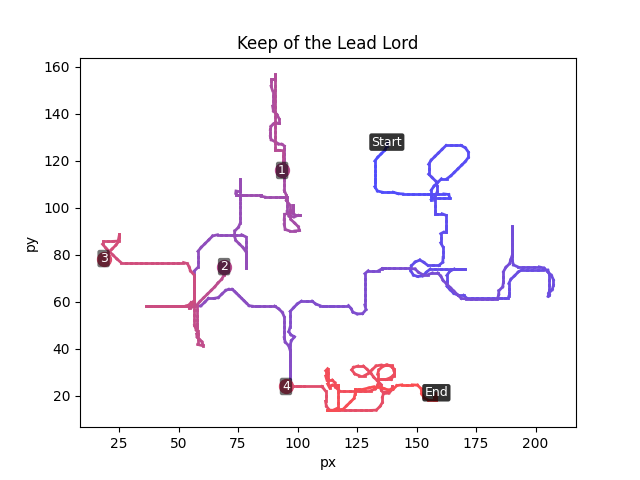
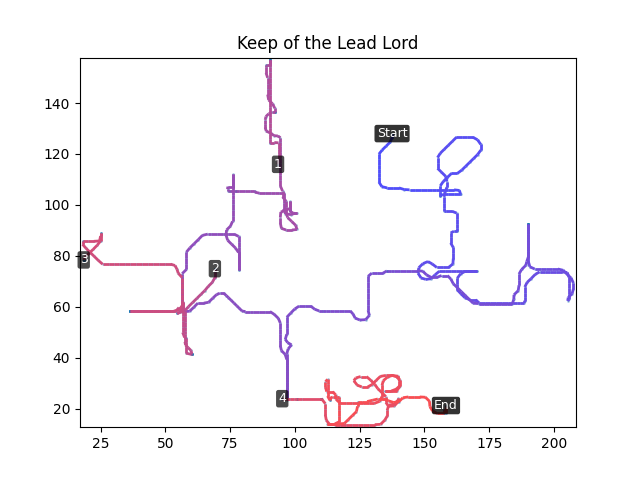
Updated Visualizer

diff --git a/Notebook/path-visualizer.py b/Notebook/path-visualizer.py
@@ -1,6 +1,7 @@
 import json, os
 from collections import defaultdict
 import matplotlib.pyplot as plt
+from matplotlib.collections import LineCollection
 import numpy as np
 
 def cleaning_data(data):
@@ -22,7 +23,8 @@ def load_run_data(path):
 
 def random_file(folder):
     files = [f for f in os.listdir(folder) if f.endswith('.jsonl')]
-    return os.path.join(folder, files[0]) if files else None
+    i = np.random.randint(0, len(files))
+    return os.path.join(folder, files[i]) if files else None
 
 def recent_file(folder):
     files = [f for f in os.listdir(folder) if f.endswith('.jsonl')]
@@ -39,10 +41,19 @@ def points_by_level(records):
 
 def plot_list(points, name, same_tol=10):
     n = len(points)
-    if n < 2:
+    if n == 0:
+        plt.title(name)
+        return
+    if n == 1:
+        x, y = points[0]
+        plt.scatter([x], [y], s=60)
+        plt.text(x, y, "Start", fontsize=9, ha='center', va='center',
+                 color='white', bbox=dict(boxstyle='round,pad=0.18', fc='black', ec='none', alpha=0.8))
+        plt.text(x, y, "End", fontsize=9, ha='center', va='center',
+                 color='white', bbox=dict(boxstyle='round,pad=0.18', fc='black', ec='none', alpha=0.8))
+        plt.title(name)
         return
 
-    # gradient colors
     t = np.linspace(0, 1, max(n - 1, 1))
     start = np.array([0.3, 0.3, 1.0])
     end   = np.array([1.0, 0.3, 0.3])
@@ -59,53 +70,45 @@ def plot_list(points, name, same_tol=10):
         placed_counts[key] += 1
         if idx == 0:
             return 0.0, 0.0
-        r = 3.5  # pixels
-        angle = (idx - 1) * np.pi  
+        r = 4
+        angle = (idx - 1) * np.pi
         return r * np.cos(angle), r * np.sin(angle)
 
+    pts = np.asarray(points, float)
+    segs = np.stack([pts[:-1], pts[1:]], axis=1)
+    lens = np.hypot(pts[1:,0]-pts[:-1,0], pts[1:,1]-pts[:-1,1])
+    short_mask = lens <= 20
+
+    ax = plt.gca()
+    if np.any(short_mask):
+        lc = LineCollection(segs[short_mask], colors=[colors[i] for i in np.nonzero(short_mask)[0]], linewidths=2)
+        ax.add_collection(lc)
+        ax.autoscale()
+
+    jump_idx = np.nonzero(~short_mask)[0]
     tp = 1
-    markersize = 10
-    for i in range(n - 1):
-        x1, y1 = points[i]
-        x2, y2 = points[i + 1]
-        length = np.hypot(x2 - x1, y2 - y1)
-        
-        if i == 0:
-            plt.text(x1, y1, "Start", fontsize=9, ha='center', va='center',
-                     color='white', bbox=dict(boxstyle='round,pad=0.18', fc='black', ec='none', alpha=0.8))
-
-        if i == (n - 2):
-            plt.text(x2, y2, "End", fontsize=9, ha='center', va='center',
-                     color='white', bbox=dict(boxstyle='round,pad=0.18', fc='black', ec='none', alpha=0.8))
-                     
-        if length > 20:  # jump/teleport
-            c = colors[i]
-
-            # point 1
-            plt.plot(x1, y1, 'o', color=c, markersize=markersize)
-            dx, dy = offset_for(x1, y1)
+    for i in jump_idx:
+        for (x, y) in [pts[i], pts[i+1]]:
+            dx, dy = offset_for(x, y)
             if dx or dy:
-                plt.plot([x1, x1 + dx], [y1, y1 + dy], linewidth=1, alpha=0.3, color=c)
-            plt.text(x1 + dx, y1 + dy, str(tp), fontsize=9, ha='center', va='center',
-                     color='white', bbox=dict(boxstyle='round,pad=0.18', fc='black', ec='none', alpha=0.55))
-
+                ax.add_collection(LineCollection([[[x, y], [x+dx, y+dy]]], linewidths=1, alpha=0.3, colors=[colors[i]]))
+            plt.text(x+dx, y+dy, str(tp), fontsize=9, ha='center', va='center',
+                     color='white', bbox=dict(boxstyle='round,pad=0.18', fc='black', ec='none', alpha=0.7))
             tp += 1
-            
-            # point 2
-            plt.plot(x2, y2, 'o', color=c, markersize=markersize)
-            dx2, dy2 = offset_for(x2, y2)
-            if dx2 or dy2:
-                plt.plot([x2, x2 + dx2], [y2, y2 + dy2], linewidth=1, alpha=0.3, color=c)
-            plt.text(x2 + dx2, y2 + dy2, str(tp), fontsize=9, ha='center', va='center',
-                     color='white', bbox=dict(boxstyle='round,pad=0.18', fc='black', ec='none', alpha=0.55))
 
-            tp += 1
-        else:
-            plt.plot([x1, x2], [y1, y2], color=colors[i], linewidth=2)
+    pad = 1.0
 
+    x1, y1 = points[0]
+    x2, y2 = points[-1]
+    plt.scatter(pts[:,0], pts[:,1], s=1, alpha=0.35)
+    ax.set_xlim(pts[:,0].min()-pad, pts[:,0].max()+pad)
+    ax.set_ylim(pts[:,1].min()-pad, pts[:,1].max()+pad)
+    plt.text(x1, y1, "Start", fontsize=9, ha='center', va='center',
+             color='white', bbox=dict(boxstyle='round,pad=0.18', fc='black', ec='none', alpha=0.8))
+    plt.text(x2, y2, "End", fontsize=9, ha='center', va='center',
+             color='white', bbox=dict(boxstyle='round,pad=0.18', fc='black', ec='none', alpha=0.8))
     plt.title(name)
-    plt.xlabel("px")
-    plt.ylabel("py")
+
 
 file_path = "Notebook/Runs"
 # file_path = random_file(file_path)
